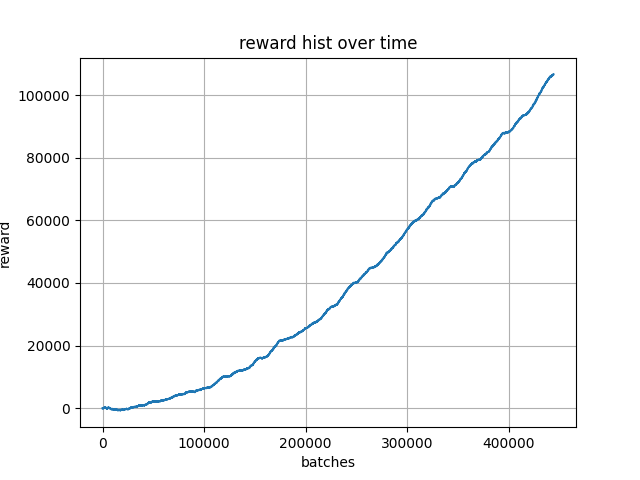
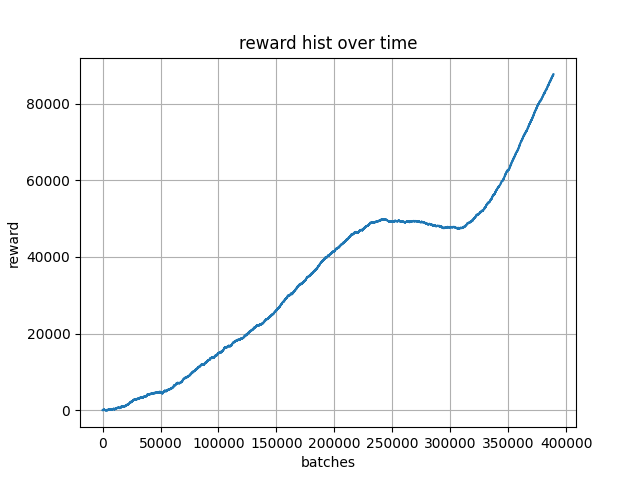
nice hypeparams give 96/33/5

diff --git a/examples/BigBoy/pytorch_gym.py b/examples/BigBoy/pytorch_gym.py
@@ -367,14 +367,14 @@ if __name__ == "__main__":
 		experiment_name = "BigBoy",
 		batch_size = 200, #Size of the batches from the memory
 		batch_cap = 2, #How many batches we take
-		memory_size = 10000, #How many S,A,S',R transitions we keep in memory
+		memory_size = 100000, #How many S,A,S',R transitions we keep in memory
 		optimize_every = 1000, #How many turns before we update the network
 		gamma = .5, #Decay parameter
 		eps_start = .9,
 		eps_end = .05,
 		eps_decay = 1000,
 		target_update = 5,
-		learning_rate = 0.25,
+		learning_rate = 0.01,
 		nb_training_steps = 5000,
 		nb_evaluation_episodes = 100,
 		species_emb_dim = 3,
